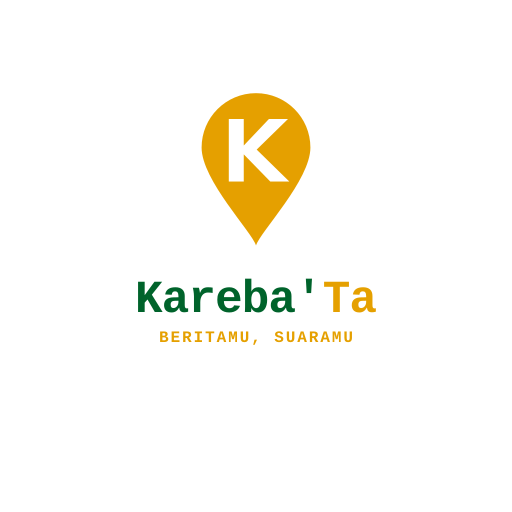
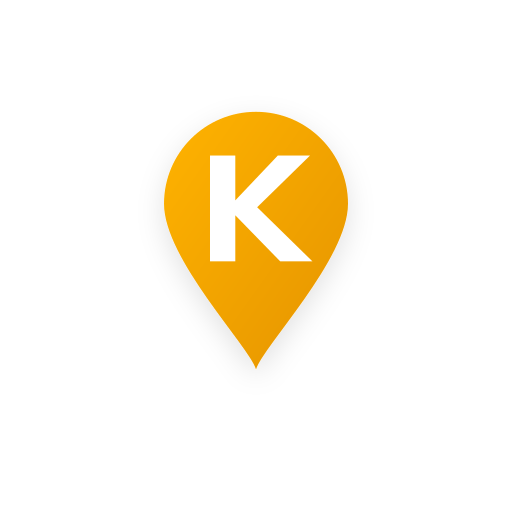
feat: implement splash screen and improve branding
- Add instant-loading PWA splash screen
- Refine brand logo with gradient and shadow assets
- Update username retrieval logic for better session handling
- Redesign login page layout for consistent brand alignment

Changed region(s): [[0.25, 0.1562, 0.75, 0.7188]]

diff --git a/scripts/generate-icons.ts b/scripts/generate-icons.ts
@@ -2,24 +2,31 @@ import sharp from "sharp";
 import fs from "fs";
 import path from "path";
 
-// SVG 512x512 dengan rasio 1:1 sempurna, background putih bersih full-bleed,
-// dan logo Kareba'Ta (Pin Emas + Teks Kareba'Ta + Slogan) tepat di tengah (center)
-// berada dalam Safe Zone 80% (radius 205px dari titik pusat 256, 256)
-// sehingga tidak akan pernah mepet atau terpotong di HP apa pun saat di-masking bulat/squircle oleh Android/iOS.
-const svgContent = `<svg xmlns="http://www.w3.org/2000/svg" viewBox="0 0 512 512" width="512" height="512">
-  <!-- Background Putih Bersih Full-Bleed 1:1 -->
-  <rect width="512" height="512" fill="#ffffff"/>
+// 1. SVG Master dengan Rasio 1:1 Sempurna (512x512)
+// Berisi Pin Emas Kareba'Ta dengan gradasi tajam + Teks Kareba'Ta dalam Poppins Black asli + Slogan
+const svgFullBrand = `<svg xmlns="http://www.w3.org/2000/svg" viewBox="0 0 512 512" width="512" height="512">
+  <defs>
+    <linearGradient id="pinGrad" x1="0%" y1="0%" x2="100%" y2="100%">
+      <stop offset="0%" stop-color="#FFB300" />
+      <stop offset="100%" stop-color="#E59400" />
+    </linearGradient>
+    <filter id="subtleShadow" x="-20%" y="-20%" width="140%" height="140%">
+      <feDropShadow dx="0" dy="6" stdDeviation="10" flood-color="#E59400" flood-opacity="0.32" />
+      <feDropShadow dx="0" dy="2" stdDeviation="4" flood-color="#000000" flood-opacity="0.1" />
+    </filter>
+  </defs>
 
-  <!-- Grup Logo di Tengah Sempurna (Center Aligned) -->
+  <!-- Background Putih Bersih Full-Bleed 1:1 -->
+  <rect width="512" height="512" fill="#ffffff" />
+
+  <!-- Grup Logo di Tengah Sempurna (Safe Zone 80%) -->
   <g id="karebata-logo-centered">
     <!-- Pin Icon Kareba'Ta: Ditempatkan tepat di tengah horizontal x=256 -->
-    <!-- Koordinat pin asli 100x120, diskalakan 1.7x (lebar 136, tinggi 190.4) -->
-    <!-- Ditempatkan pada x=188, y=85 sehingga center pin persis di x=256 -->
-    <g transform="translate(188, 85) scale(1.36)">
+    <g transform="translate(176, 68) scale(1.6)" filter="url(#subtleShadow)">
       <!-- Bentuk Pin Lokasi Warna Kuning Keemasan -->
       <path
         d="M 50 118 C 47 108 10 70 10 46 A 40 40 0 1 1 90 46 C 90 70 53 108 50 118 Z"
-        fill="#E5A000"
+        fill="url(#pinGrad)"
       />
       <!-- Huruf K Tebal Putih Bersih di Dalam Pin -->
       <path
@@ -28,15 +35,15 @@ const svgContent = `<svg xmlns="http://www.w3.org/2000/svg" viewBox="0 0 512 512
       />
     </g>
 
-    <!-- Teks Kareba'Ta: Rata Tengah Sempurna (text-anchor="middle" di x=256) -->
+    <!-- Teks Kareba'Ta: Rata Tengah Sempurna (x=256) dengan Font Poppins Asli -->
     <text
       x="256"
-      y="312"
+      y="320"
       text-anchor="middle"
-      font-family="'Poppins', system-ui, -apple-system, sans-serif"
+      font-family="Poppins"
       font-weight="900"
-      font-size="46"
-      letter-spacing="-0.02em"
+      font-size="52"
+      letter-spacing="-0.03em"
     >
       <tspan fill="#00632B">Kareba'</tspan><tspan fill="#E5A000">Ta</tspan>
     </text>
@@ -44,16 +51,42 @@ const svgContent = `<svg xmlns="http://www.w3.org/2000/svg" viewBox="0 0 512 512
     <!-- Slogan beritamu suaramu: Rata Tengah Sempurna di x=256 -->
     <text
       x="256"
-      y="342"
+      y="354"
       text-anchor="middle"
-      font-family="'Poppins', system-ui, -apple-system, sans-serif"
+      font-family="Poppins"
       font-weight="800"
-      font-size="16"
+      font-size="14.5"
       fill="#E5A000"
-      letter-spacing="0.12em"
+      letter-spacing="0.16em"
     >
       BERITAMU, SUARAMU
     </text>
+  </g>
+</svg>`;
+
+// 2. SVG Khusus Maskable Icon (Pin Simbol Utama Berukuran Besar & Kokoh di Safe Zone 80%)
+const svgMaskablePin = `<svg xmlns="http://www.w3.org/2000/svg" viewBox="0 0 512 512" width="512" height="512">
+  <defs>
+    <linearGradient id="pinGradMask" x1="0%" y1="0%" x2="100%" y2="100%">
+      <stop offset="0%" stop-color="#FFB300" />
+      <stop offset="100%" stop-color="#E59400" />
+    </linearGradient>
+    <filter id="shadowMask" x="-20%" y="-20%" width="140%" height="140%">
+      <feDropShadow dx="0" dy="10" stdDeviation="16" flood-color="#E59400" flood-opacity="0.35" />
+      <feDropShadow dx="0" dy="4" stdDeviation="6" flood-color="#000000" flood-opacity="0.12" />
+    </filter>
+  </defs>
+  <rect width="512" height="512" fill="#ffffff" />
+  
+  <g transform="translate(141, 98) scale(2.3)" filter="url(#shadowMask)">
+    <path
+      d="M 50 118 C 47 108 10 70 10 46 A 40 40 0 1 1 90 46 C 90 70 53 108 50 118 Z"
+      fill="url(#pinGradMask)"
+    />
+    <path
+      d="M 30 25 H 41 V 44.5 L 59.5 25 H 73.5 L 50.5 47.5 L 74.5 71 H 60.5 L 41 51 V 71 H 30 V 25 Z"
+      fill="#ffffff"
+    />
   </g>
 </svg>`;
 
@@ -65,40 +98,41 @@ async function main() {
 
   // 1. Simpan logo.svg (1:1 square 512x512)
   const logoSvgPath = path.join(publicDir, "logo.svg");
-  fs.writeFileSync(logoSvgPath, svgContent, "utf-8");
+  fs.writeFileSync(logoSvgPath, svgFullBrand, "utf-8");
   console.log("Wrote:", logoSvgPath);
 
-  const svgBuffer = Buffer.from(svgContent);
+  const fullBrandBuffer = Buffer.from(svgFullBrand);
+  const maskableBuffer = Buffer.from(svgMaskablePin);
 
-  // 2. Buat icon-192.png
-  await sharp(svgBuffer)
-    .resize(192, 192)
-    .png()
+  // 2. Buat pwa-192x192.png (High Quality Lanczos3)
+  await sharp(fullBrandBuffer)
+    .resize(192, 192, { kernel: sharp.kernel.lanczos3 })
+    .png({ quality: 100, compressionLevel: 9 })
     .toFile(path.join(publicDir, "pwa-192x192.png"));
   console.log("Generated: pwa-192x192.png");
 
-  // 3. Buat icon-512.png
-  await sharp(svgBuffer)
-    .resize(512, 512)
-    .png()
+  // 3. Buat pwa-512x512.png (High Quality 512x512)
+  await sharp(fullBrandBuffer)
+    .resize(512, 512, { kernel: sharp.kernel.lanczos3 })
+    .png({ quality: 100, compressionLevel: 9 })
     .toFile(path.join(publicDir, "pwa-512x512.png"));
   console.log("Generated: pwa-512x512.png");
 
-  // 4. Buat pwa-maskable-512x512.png
-  await sharp(svgBuffer)
-    .resize(512, 512)
-    .png()
+  // 4. Buat pwa-maskable-512x512.png (Khusus Android Adaptive Icon Safe Zone)
+  await sharp(maskableBuffer)
+    .resize(512, 512, { kernel: sharp.kernel.lanczos3 })
+    .png({ quality: 100, compressionLevel: 9 })
     .toFile(path.join(publicDir, "pwa-maskable-512x512.png"));
   console.log("Generated: pwa-maskable-512x512.png");
 
-  // 5. Buat apple-touch-icon.png (180x180)
-  await sharp(svgBuffer)
-    .resize(180, 180)
-    .png()
+  // 5. Buat apple-touch-icon.png (180x180 iOS Retina)
+  await sharp(fullBrandBuffer)
+    .resize(180, 180, { kernel: sharp.kernel.lanczos3 })
+    .png({ quality: 100, compressionLevel: 9 })
     .toFile(path.join(publicDir, "apple-touch-icon.png"));
   console.log("Generated: apple-touch-icon.png");
 
-  console.log("All PWA icons generated successfully!");
+  console.log("All PWA icons generated successfully with crystal clear resolution!");
 }
 
 main().catch(console.error);

diff --git a/src/App.tsx b/src/App.tsx
@@ -98,10 +98,20 @@ export default function KarebaFeedFinal() {
 
   const [userName, setUserName] = useState<string>(() => {
     try {
-      return localStorage.getItem("karebata_username") || "";
-    } catch {
-      return "";
-    }
+      if (typeof window !== "undefined") {
+        const activeUid = localStorage.getItem("karebata_active_uid");
+        const activeEmail = (localStorage.getItem("karebata_active_email") || "").toLowerCase();
+        if (activeUid) {
+          const cached = localStorage.getItem(`karebata_custom_username_${activeUid}`);
+          if (cached && cached.trim() && cached !== "warga_kareba") return cached.trim().slice(0, 13);
+        }
+        if (activeEmail) {
+          const cached = localStorage.getItem(`karebata_registered_${activeEmail}`);
+          if (cached && cached.trim() && cached !== "warga_kareba") return cached.trim().slice(0, 13);
+        }
+      }
+    } catch {}
+    return "";
   });
   const userEmail = currentUser?.email || "";
   // Nama pengguna selalu bersumber dari ketikan user (maks 13 huruf), BUKAN alamat email
@@ -532,27 +542,14 @@ export default function KarebaFeedFinal() {
     }
   };
 
-  // Fungsi Tarik Layar ke Bawah untuk Memperbarui (Pull-to-Refresh seperti di aplikasi Facebook)
+  // Fungsi Tarik Layar ke Bawah untuk Memperbarui (Pull-to-Refresh)
   const handlePullRefresh = async () => {
-    // Memberikan jeda loading natural
-    await new Promise((resolve) => setTimeout(resolve, 1000));
+    // Memberikan jeda loading alami tanpa menyuntikkan kabar/akun buatan
+    await new Promise((resolve) => setTimeout(resolve, 600));
 
-    // Tambahkan kabar terkini baru di papan teks berjalan
-    const freshBulletin: BulletinItem = {
-      id: `b-refresh-${Date.now()}`,
-      category: "KABAR TERKINI",
-      text: "Pembaruan Langsung: Arus lalu lintas pesisir & kawasan jembatan utama lancar terkendali.",
-      location: "Pusat Kota",
-      time: "Baru saja",
-    };
-    setBulletins((prev) => [freshBulletin, ...prev.filter((b) => !b.id.startsWith("b-refresh-"))]);
-
-    // Segarkan waktu feed
+    // Sinkronisasi status feed yang ada tanpa menambahkan akun atau teks palsu
     setFeed((prev) =>
-      prev.map((item, idx) => ({
-        ...item,
-        time: idx === 0 ? "Baru saja" : item.time,
-      }))
+      prev.filter((f) => !isDummyMedia(f))
     );
   };
 
@@ -1986,7 +1983,7 @@ export default function KarebaFeedFinal() {
           <header
             id="karebata-feed-header"
             dir="ltr"
-            className="bg-white border-b border-neutral-200 px-3 sm:px-4 py-2 sm:py-2.5 flex items-center justify-between transition-all duration-150 min-h-[52px] overflow-hidden w-full"
+            className="bg-white border-b border-neutral-200 px-4 sm:px-5 py-2 sm:py-2.5 flex items-center justify-between transition-all duration-150 min-h-[52px] overflow-hidden w-full"
           >
             {isSearchOpen ? (
               /* SAAT PENCARIAN AKTIF: LOGO, ICON KAMERA, DAN ICON MEDIA HILANG, TAMPIL PAPAN PENCARIAN */

diff --git a/src/components/LoginPage.tsx b/src/components/LoginPage.tsx
@@ -78,30 +78,30 @@ export const LoginPage: React.FC<LoginPageProps> = ({
 
       {/* Main Content Area */}
       <main className="w-full max-w-sm sm:max-w-md mx-auto px-6 py-2 my-auto flex flex-col justify-center shrink-0">
-        {/* Logo Showcase dengan Gaya Bersih & Elegan */}
+        {/* Logo Showcase: Icon Lokasi Berada di Kiri Tulisan Kareba'Ta */}
         <div className="flex flex-col items-center text-center mb-5 sm:mb-6">
-          <div className="relative mb-2 group">
-            <div className="w-20 h-24 sm:w-24 sm:h-28 flex items-center justify-center filter drop-shadow-md">
-              <KarebaPinIcon className="w-20 h-24 sm:w-24 sm:h-28" />
+          <div className="flex items-center justify-center gap-3 sm:gap-3.5 mb-2">
+            <div className="shrink-0 flex items-center justify-center filter drop-shadow-sm">
+              <KarebaPinIcon className="w-13 h-15 sm:w-16 sm:h-18" size={54} />
+            </div>
+            <div className="flex flex-col text-left justify-center">
+              <h1
+                className="text-3xl sm:text-4xl font-[900] tracking-tight leading-none"
+                style={{ fontFamily: "'Poppins', system-ui, sans-serif" }}
+              >
+                <span className="text-[#00632B]">Kareba'</span>
+                <span className="text-[#E5A000]">Ta</span>
+              </h1>
+              <p
+                className="text-[10px] sm:text-xs font-extrabold tracking-[0.12em] text-[#E5A000] mt-1 uppercase"
+                style={{ fontFamily: "'Poppins', system-ui, sans-serif" }}
+              >
+                beritamu, suaramu
+              </p>
             </div>
           </div>
 
-          <h1
-            className="text-3xl sm:text-4xl font-[900] tracking-tight leading-none"
-            style={{ fontFamily: "'Poppins', system-ui, sans-serif" }}
-          >
-            <span className="text-[#00632B]">Kareba'</span>
-            <span className="text-[#E5A000]">Ta</span>
-          </h1>
-
-          <p
-            className="text-xs sm:text-sm font-extrabold tracking-[0.12em] text-[#E5A000] mt-1.5 uppercase"
-            style={{ fontFamily: "'Poppins', system-ui, sans-serif" }}
-          >
-            beritamu, suaramu
-          </p>
-
-          <p className="text-xs text-neutral-600 mt-2.5 max-w-xs leading-relaxed font-normal">
+          <p className="text-xs text-neutral-600 mt-1 max-w-xs leading-relaxed font-normal">
             Masuk dengan Akun Google terlebih dahulu untuk menikmati dan membagikan kabar warga terkini.
           </p>
         </div>

diff --git a/index.html b/index.html
@@ -24,7 +24,38 @@
     <meta name="twitter:card" content="summary_large_image" />
   </head>
   <body>
-    <div id="root"></div>
+    <div id="root">
+      <!-- High-Definition Vector Splash Screen rendered instantly on app launch -->
+      <div id="pwa-splash-preloader" style="position:fixed;inset:0;background:#ffffff;display:flex;flex-direction:column;align-items:center;justify-content:center;z-index:99999;font-family:'Poppins',system-ui,sans-serif;-webkit-font-smoothing:antialiased;">
+        <div style="display:flex;flex-direction:column;align-items:center;text-align:center;padding:24px;">
+          <!-- Vector Pin SVG: 100% Crisp at any pixel density -->
+          <div style="filter:drop-shadow(0 10px 22px rgba(229,160,0,0.35));margin-bottom:16px;">
+            <svg viewBox="0 0 100 120" width="88" height="106" fill="none" xmlns="http://www.w3.org/2000/svg">
+              <path d="M 50 118 C 47 108 10 70 10 46 A 40 40 0 1 1 90 46 C 90 70 53 108 50 118 Z" fill="#E5A000" />
+              <path d="M 30 25 H 41 V 44.5 L 59.5 25 H 73.5 L 50.5 47.5 L 74.5 71 H 60.5 L 41 51 V 71 H 30 V 25 Z" fill="#ffffff" />
+            </svg>
+          </div>
+          <!-- Brand Name: Kareba'Ta -->
+          <div style="font-size:36px;font-weight:900;letter-spacing:-0.03em;line-height:1;margin-bottom:6px;">
+            <span style="color:#00632B;">Kareba'</span><span style="color:#E5A000;">Ta</span>
+          </div>
+          <!-- Slogan: BERITAMU, SUARAMU -->
+          <div style="font-size:11px;font-weight:800;letter-spacing:0.16em;color:#E5A000;text-transform:uppercase;margin-bottom:28px;">
+            BERITAMU, SUARAMU
+          </div>
+          <!-- Subtle Sleek Loading Bar -->
+          <div style="width:48px;height:3px;background:#f3f4f6;border-radius:99px;overflow:hidden;position:relative;">
+            <div style="position:absolute;inset:0;background:#00632B;border-radius:99px;animation:pwaSplashPulse 1s ease-in-out infinite;"></div>
+          </div>
+        </div>
+      </div>
+      <style>
+        @keyframes pwaSplashPulse {
+          0% { transform: translateX(-100%); }
+          100% { transform: translateX(100%); }
+        }
+      </style>
+    </div>
     <script type="module" src="/src/main.tsx"></script>
   </body>
 </html>

diff --git a/src/services/firebase.ts b/src/services/firebase.ts
@@ -710,10 +710,6 @@ export async function checkRegisteredUser(
       return { isRegistered: true, username: localCachedUid.trim().slice(0, 13) };
     }
   }
-  const generalCached = localStorage.getItem('karebata_username') || localStorage.getItem('karebata_last_registered_username');
-  if (generalCached && generalCached.trim() && generalCached !== 'warga_kareba') {
-    return { isRegistered: true, username: generalCached.trim().slice(0, 13) };
-  }
 
   if (!db) {
     return { isRegistered: false, username: null };
